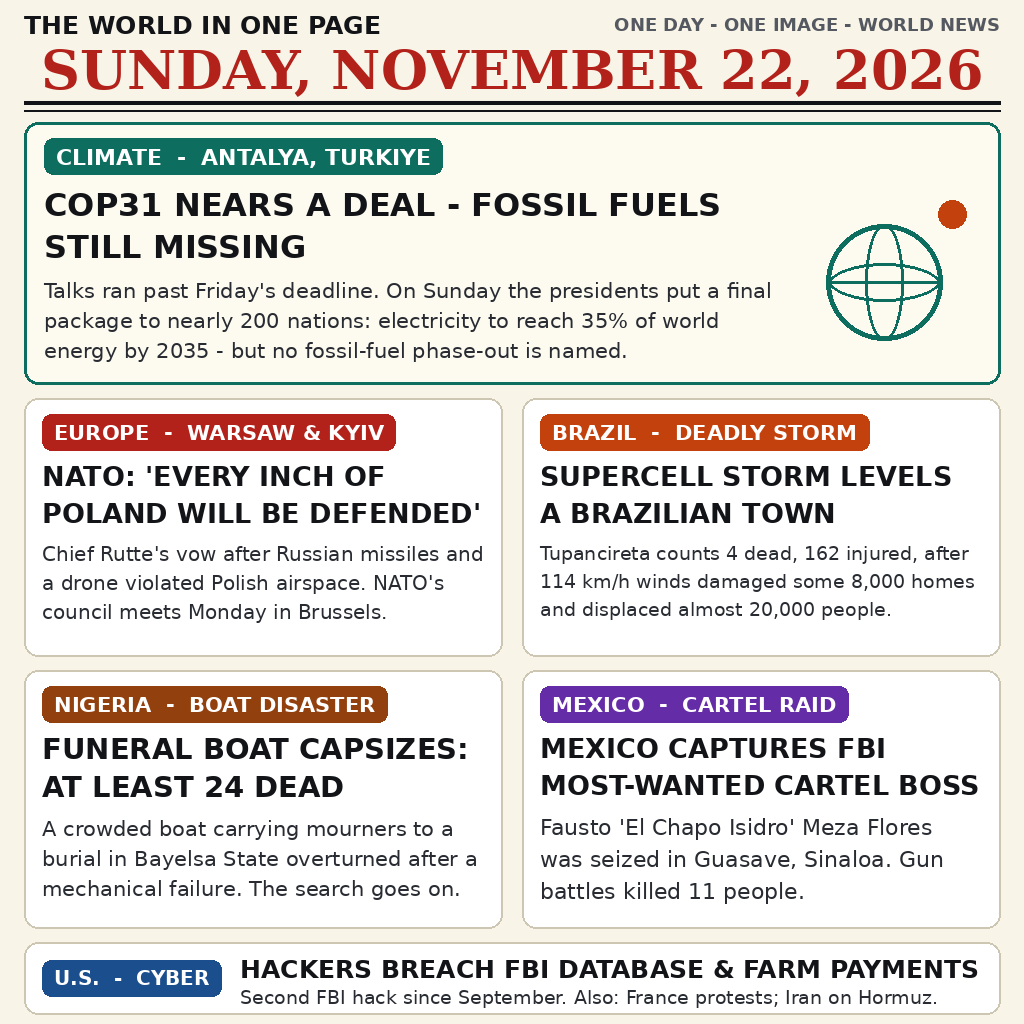
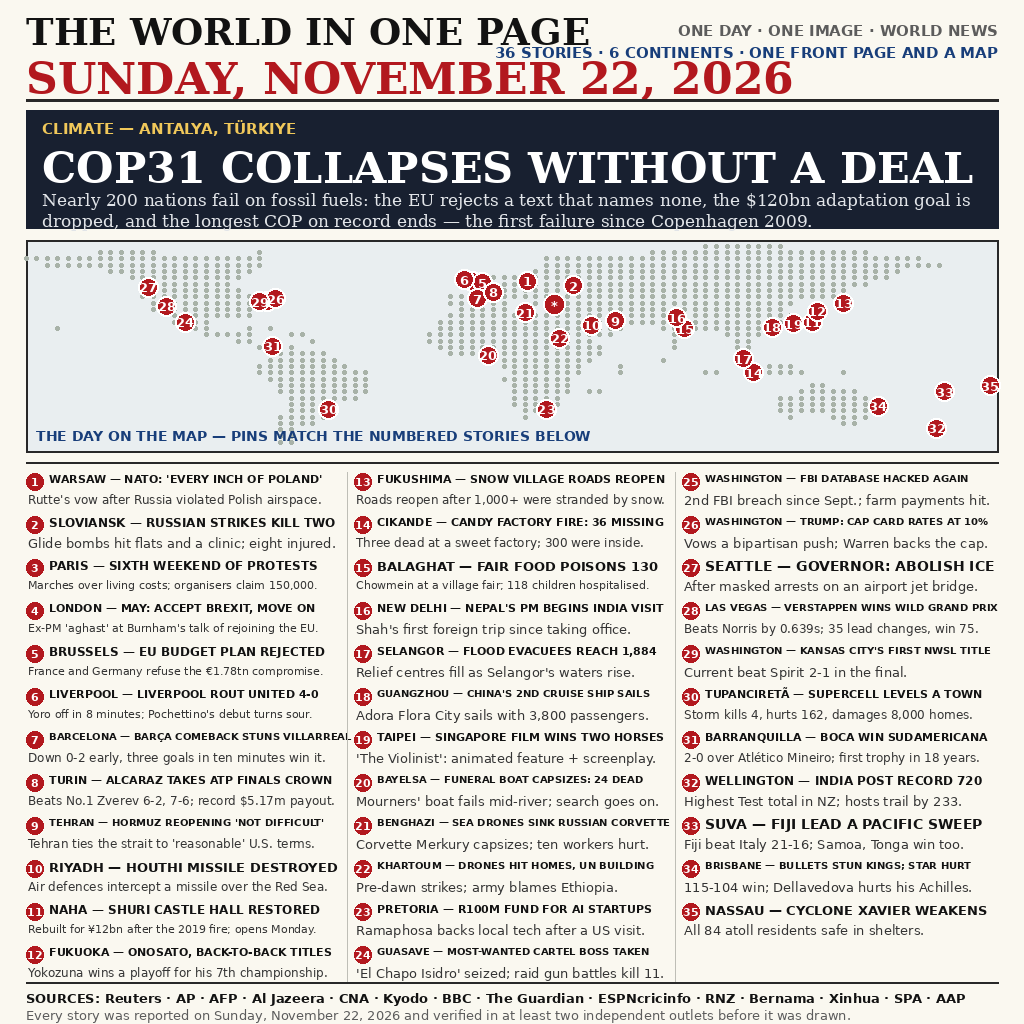
Completed-day edition: COP31 collapse lead, world map with pins, 36 stories

diff --git a/SOURCES.md b/SOURCES.md
@@ -5,14 +5,21 @@ Every story on the front page broke or developed on Sunday,
 least two independent outlets before it was drawn. This file lists
 what was used, so a reader can retrace the page.
 
-## Lead story — COP31 in Antalya
+## Lead story — COP31 in Antalya collapses
 
-Reuters reporting on Sunday described the final package being put
-to almost 200 countries after the summit overran its Friday
-deadline. The draft keeps the goal of electricity reaching 35% of
-final energy by 2035 and, once again, avoids any explicit mention
-of fossil fuels, even though roughly 130 countries had pressed for
-phase-out language. CNA carried the same text and figures.
+The completed day changed the lead completely. AFP reporting
+carried by CNA described the final agreement collapsing on Sunday:
+the EU and island states rejected a text that never mentioned
+fossil fuels, the $120 billion adaptation target was dropped, and
+the summit — already the longest on record after running two days
+into overtime — ended with no cover decision at all, the first
+such failure since Copenhagen in 2009. Newsbase's Reuters-based
+account, Down To Earth and the Kuwait Times all reported the same
+outcome, with negotiations chair Chris Bowen conceding he could
+not bridge the red lines and Secretary-General Guterres expressing
+deep disappointment. An earlier edition of this entry, filed at
+lunchtime, had the talks merely nearing a deal; the collapse is
+what the day actually delivered.
 
 ## NATO and Poland
 
@@ -54,6 +61,40 @@ intrusion into the NCIC criminal database, the second FBI breach
 since September (also covered by CNN). NBC reported that a
 Department of Agriculture system handling farmer payments had been
 breached as well; whether the intrusions are linked was not known.
+
+## The briefs in this completed-day edition
+
+The first edition carried six stories; this one carries 36. The
+extra briefs were each reported on Sunday by at least two outlets,
+among them: Russian strikes on Sloviansk (Ukrinform, Censor.NET);
+Theresa May's Brexit warning (The Guardian, PA); France and
+Germany rejecting the EU budget compromise (Business Times,
+Philstar); Liverpool 4-0 Manchester United and Barcelona's
+comeback against Villarreal (both Reuters); Alcaraz's ATP Finals
+win (Reuters, ATP Tour); Saudi air defences destroying a Houthi
+missile (Saudi Press Agency, Gulf News); Shuri Castle's restored
+main hall and Onosato's sumo title (both Kyodo); the reopening of
+snowbound Kitashiobara (Kyodo); the Cikande candy factory fire
+(Al Jazeera, CNA); food poisoning at a Balaghat fair (The Hindu,
+The Indian Express); Nepal's prime minister opening his India
+visit (Times of India, ANI); Selangor flood evacuees reaching
+1,884 (Bernama, Malay Mail); China's second cruise ship sailing
+from Guangzhou (Xinhua, China Daily); a Singapore film's two
+Golden Horse awards (The Straits Times); sea drones sinking the
+Russian corvette Merkury at Benghazi (Al Jazeera, Reuters);
+drones hitting homes and a UN building in Khartoum (AFP); South
+Africa's R100 million AI startup fund (SAnews, MyBroadband);
+Washington State's governor demanding ICE be abolished after
+airport arrests (Los Angeles Times); Trump vowing to push a 10%
+credit-card interest cap with Democratic support; Verstappen's
+Las Vegas Grand Prix win by 0.639 seconds (Al Jazeera,
+Formula1.com); Kansas City's first NWSL championship (Al Jazeera,
+AP); Boca Juniors winning the Copa Sudamericana in Barranquilla
+(beIN Sports, talkSPORT); India's record 720 in the Wellington
+Test (ESPNcricinfo, CNA); Fiji beating Italy as Samoa and Tonga
+also won (RNZ, FijiVillage); Brisbane's NBL upset of Sydney with
+Dellavedova injured (AAP, The Age); and Cyclone Xavier weakening
+with all 84 residents of Nassau safe (RNZ, NZ MetService).
 
 ## Items checked and left off the page
 

diff --git a/README.md b/README.md
@@ -3,7 +3,11 @@
 One image that sums up a whole day of world news: the front page of
 an imaginary Sunday newspaper dated **Sunday, 22 November 2026**,
 drawn at 1024x1024 so the date and every headline stay readable even
-when the picture is shrunk to a thumbnail.
+when the picture is shrunk to a thumbnail. This completed-day
+edition carries **36 stories from 6 continents**: a lead report, a
+dotted world map whose numbered pins match the stories, 35 numbered
+briefs in three columns, and a sources line along the foot of the
+page.
 
 This repository is an entry in the make.fun competition
 [Sum up 22 November's world news in one image](https://make.fun/c/news-image-20261122).
@@ -14,28 +18,32 @@ This repository is an entry in the make.fun competition
 
 ## What the front page reports
 
-Six stories made the page, chosen to span regions and subjects:
+The lead is the day's biggest story: **COP31 collapsed without a
+deal**. Nearly 200 nations failed over fossil fuels in Antalya —
+the EU rejected a text that named none, the $120 billion adaptation
+goal was dropped, and the longest climate summit on record ended in
+the first such failure since Copenhagen in 2009.
 
-1. **Climate, Antalya** — the COP31 talks ran past their Friday
-   deadline, and on Sunday the presidency put a final package to
-   nearly 200 nations: electricity should reach 35% of world final
-   energy by 2035, yet the text still names no fossil-fuel phase-out.
-2. **Europe, Warsaw and Kyiv** — NATO's chief Mark Rutte vowed the
-   alliance "will defend every inch of Polish territory" after
-   Russian missiles and a drone violated Polish airspace; NATO's
-   council meets Monday in Brussels.
-3. **Brazil, deadly storm** — a supercell levelled much of
-   Tupanciretã in Rio Grande do Sul: 4 dead, 162 injured, about
-   8,000 homes damaged and almost 20,000 people displaced.
-4. **Nigeria, boat disaster** — a crowded funeral boat capsized on
-   its way to a burial in Bayelsa State; at least 24 people died
-   and the search continued through the day.
-5. **Mexico, cartel raid** — special forces captured Fausto
-   "El Chapo Isidro" Meza Flores, one of the FBI's ten most wanted,
-   in Guasave, Sinaloa; gun battles around the raid killed 11.
-6. **United States, cyber** — hackers breached an FBI criminal
-   database for the second time since September, and a farm-payment
-   system was hit in the same wave of intrusions.
+Around it, the 35 numbered briefs cover the rest of the Sunday:
+NATO's vow to defend every inch of Poland and Russian strikes on
+Sloviansk; France's sixth protest weekend, a Brexit row in London
+and a rejected EU budget; Liverpool's 4-0 rout of Manchester
+United, Barcelona's comeback and Alcaraz's ATP Finals crown; a
+Houthi missile intercepted over the Red Sea and Iran's terms for
+reopening Hormuz; Shuri Castle restored in Naha, a sumo title in
+Fukuoka and a snowbound Fukushima village reconnected; a factory
+fire in Indonesia, mass food poisoning in India, floods in
+Selangor, Nepal's prime minister in Delhi, China's second cruise
+ship and a Singapore film's Golden Horse double; a capsized
+funeral boat in Nigeria, a Russian corvette sunk by sea drones in
+Benghazi and drones over Khartoum; the capture of an FBI
+most-wanted cartel boss in Mexico, another FBI database breach,
+a promised 10% cap on card interest, an abolish-ICE call in
+Seattle, Verstappen's Las Vegas win and Kansas City's first NWSL
+title; a town levelled by a Brazilian supercell and Boca Juniors'
+Copa Sudamericana; and in Oceania a record Indian Test total in
+Wellington, a Pacific rugby sweep led by Fiji, Brisbane's upset
+of Sydney in the NBL, and a weakening cyclone in the Cook Islands.
 
 ## How the entry runs
 
